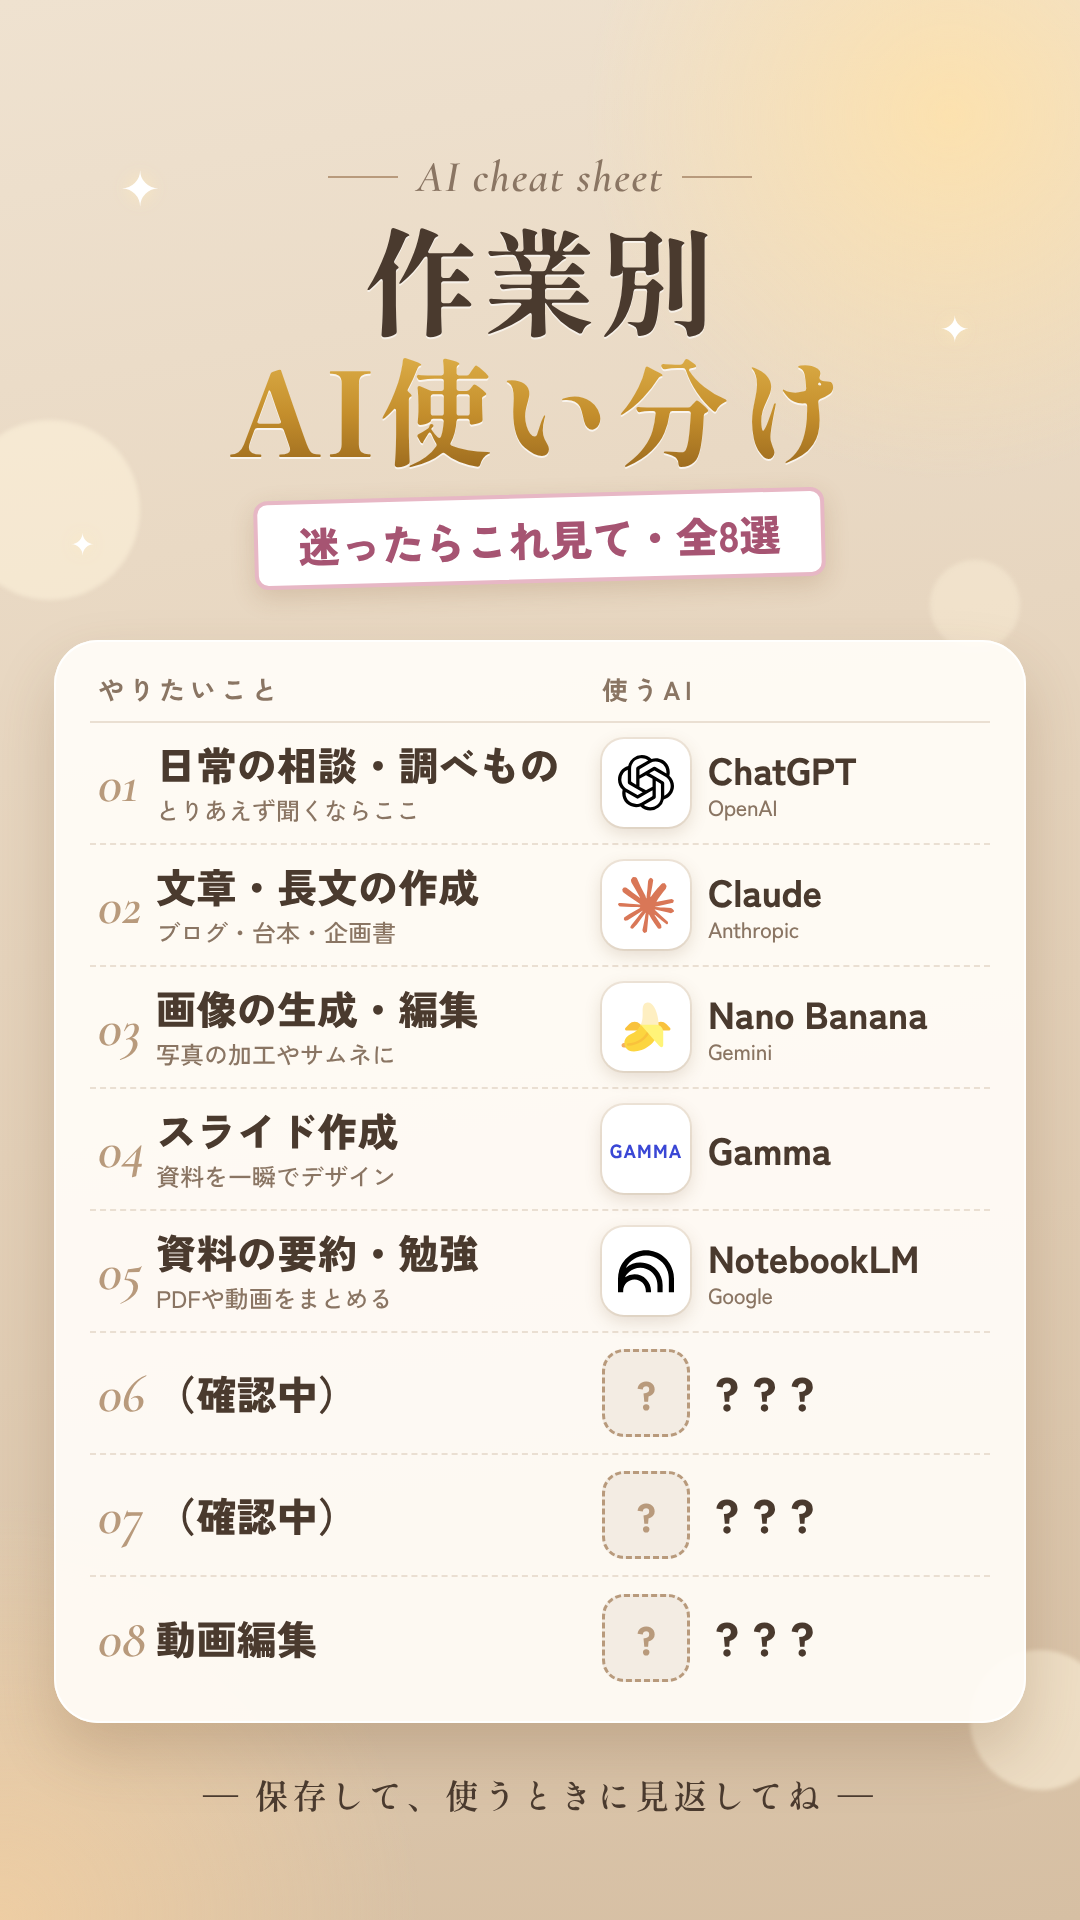
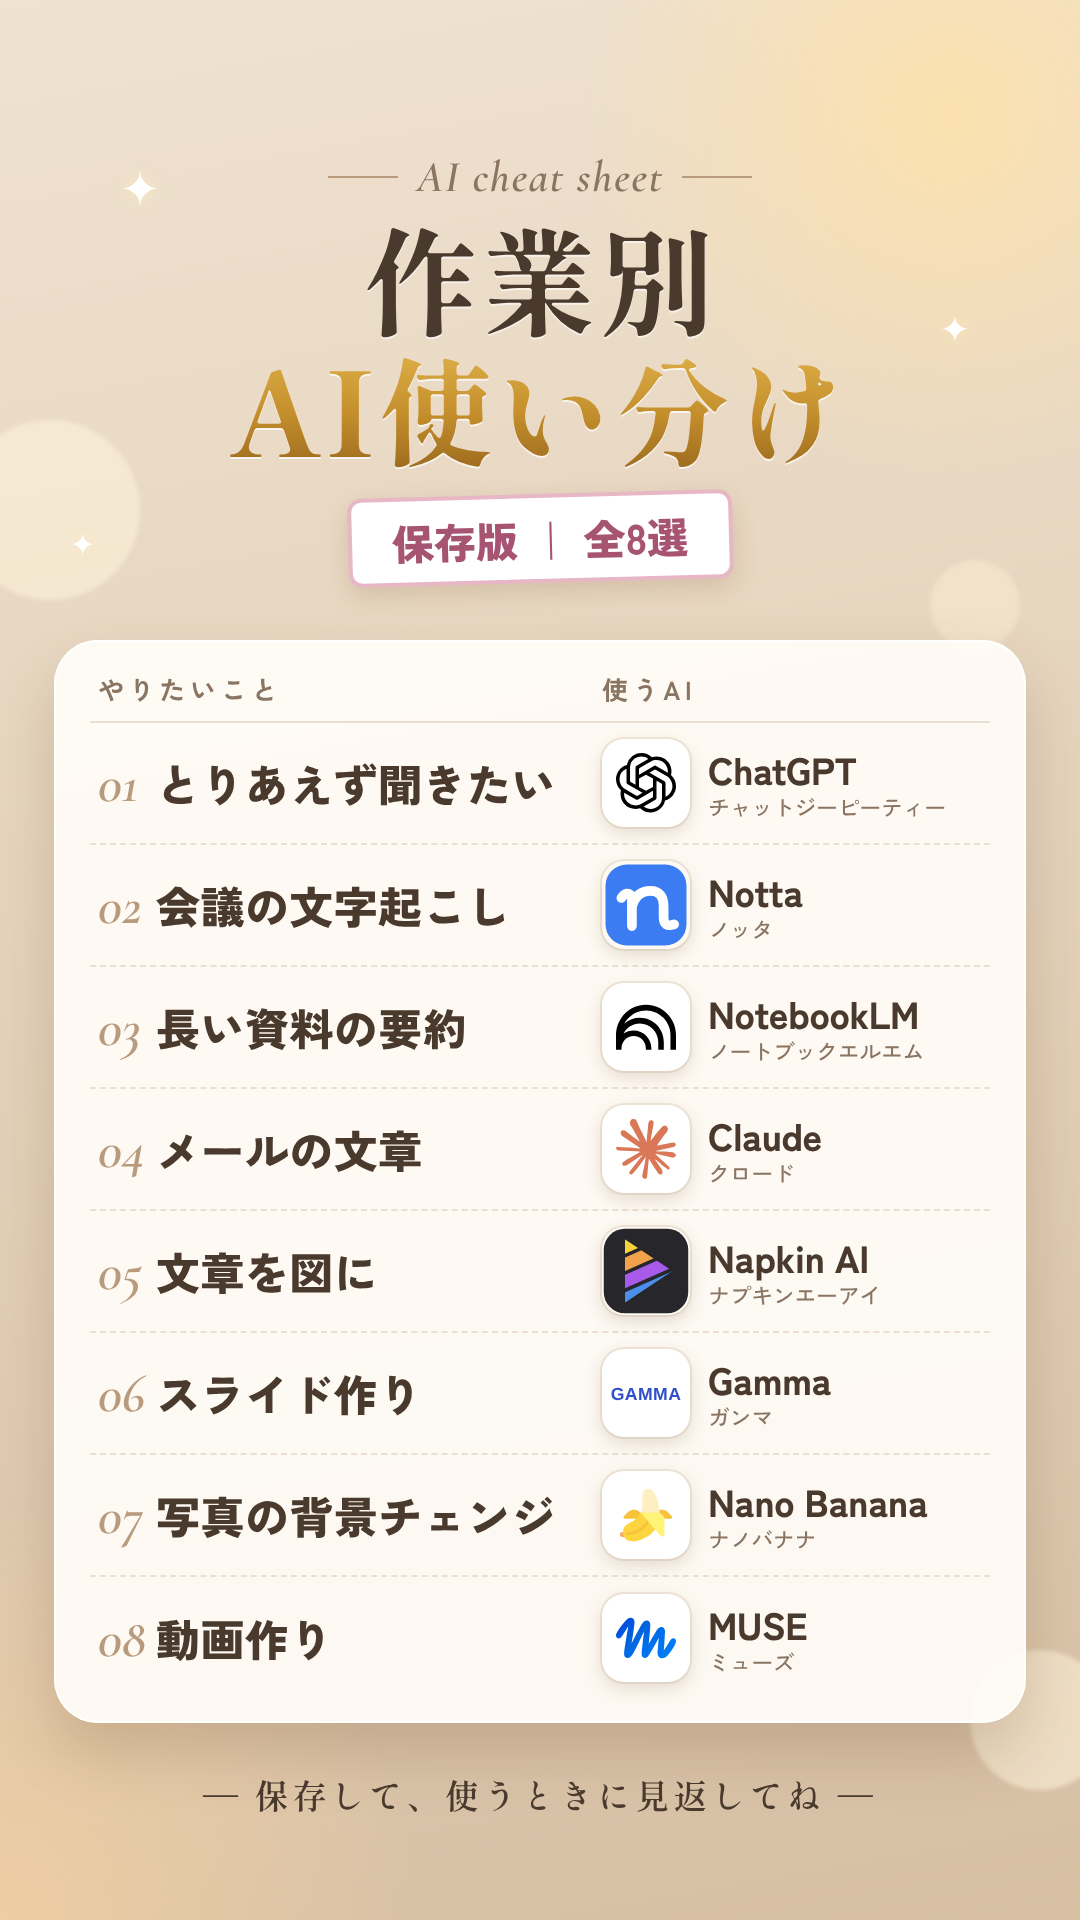
Fill v3 reel cover with the reel's actual 8 AI picks
Claude-Session: https://claude.ai/code/session_017Ef8JeMhRBh7wWp9r51EAv

diff --git a/reel-cover/cover-v3.html b/reel-cover/cover-v3.html
@@ -26,12 +26,13 @@ h1 .g{background:linear-gradient(180deg,#E9BE55 0%,#C48E2C 55%,#8F5F1A 100%);-we
 .row:last-child{border-bottom:none}
 .num{font-family:"Cormorant Garamond";font-style:italic;font-size:54px;color:var(--mocha);width:58px}
 .task{flex:1;min-width:0}
-.task b{display:block;font-weight:900;font-size:40px;line-height:1.2;letter-spacing:.01em}
+.task b{display:block;font-weight:900;font-size:44px;line-height:1.2;letter-spacing:.01em}
 .task small{display:block;font-weight:500;font-size:24px;color:var(--sub);margin-top:4px;white-space:nowrap}
 .tool{display:flex;align-items:center;gap:18px;width:380px}
 .ico{width:88px;height:88px;border-radius:22px;background:#fff;display:flex;align-items:center;justify-content:center;flex:none;
   box-shadow:0 6px 18px rgba(110,75,40,.18),0 0 0 2px #F1E8DC}
-.ico img{width:56px;height:56px}
+.ico img{width:60px;height:60px}
+.ico.full{background:none;overflow:hidden}.ico.full img{width:88px;height:88px}
 .ico.tbd{background:#F3ECE3;border:3px dashed var(--mocha);box-shadow:none;font:900 40px "Zen Kaku Gothic New";color:var(--mocha)}
 .ico .gm{font:900 19px/1 "Zen Kaku Gothic New";letter-spacing:.06em;color:#3A47D5}
 .name{font-weight:900;font-size:38px;line-height:1.1;letter-spacing:-.01em}
@@ -48,7 +49,7 @@ h1 .g{background:linear-gradient(180deg,#E9BE55 0%,#C48E2C 55%,#8F5F1A 100%);-we
 <div class="head">
   <div class="eyebrow">AI cheat sheet</div>
   <h1>作業別<br><span class="g">AI使い分け</span></h1>
-  <div class="tag">迷ったらこれ見て・全8選</div>
+  <div class="tag">保存版 ｜ 全8選</div>
 </div>
 
 <div class="sheet">
@@ -60,16 +61,16 @@ h1 .g{background:linear-gradient(180deg,#E9BE55 0%,#C48E2C 55%,#8F5F1A 100%);-we
 <script>
 // ★ [作業, ひとこと, AI名, AIの補足, アイコン]  アイコン: 'icons/xxx.svg' / 'GAMMA'(文字) / '?'(未確定)
 const ROWS = [
-  ["日常の相談・調べもの", "とりあえず聞くならここ",   "ChatGPT",    "OpenAI",        "icons/chatgpt.svg"],
-  ["文章・長文の作成",     "ブログ・台本・企画書",     "Claude",     "Anthropic",     "icons/claude.svg"],
-  ["画像の生成・編集",     "写真の加工やサムネに",     "Nano Banana","Gemini",        "icons/nanobanana.svg"],
-  ["スライド作成",         "資料を一瞬でデザイン",     "Gamma",      "",              "GAMMA"],
-  ["資料の要約・勉強",     "PDFや動画をまとめる",      "NotebookLM", "Google",        "icons/notebooklm.svg"],
-  ["（確認中）",           "",                         "？？？",     "",              "?"],
-  ["（確認中）",           "",                         "？？？",     "",              "?"],
-  ["動画編集",             "",                         "？？？",     "",              "?"],
+  ["とりあえず聞きたい", "", "ChatGPT",     "チャットジーピーティー", "icons/chatgpt.svg"],
+  ["会議の文字起こし",   "", "Notta",       "ノッタ",                 "icons/notta.svg"],
+  ["長い資料の要約",     "", "NotebookLM",  "ノートブックエルエム",   "icons/notebooklm.svg"],
+  ["メールの文章",       "", "Claude",      "クロード",               "icons/claude.svg"],
+  ["文章を図に",         "", "Napkin AI",   "ナプキンエーアイ",       "icons/napkin.svg"],
+  ["スライド作り",       "", "Gamma",       "ガンマ",                 "icons/gamma.svg"],
+  ["写真の背景チェンジ", "", "Nano Banana", "ナノバナナ",             "icons/nanobanana.svg"],
+  ["動画作り",           "", "MUSE",        "ミューズ",               "icons/muse.svg"],
 ];
-const ico = s => s==='?' ? '<div class="ico tbd">?</div>' : s==='GAMMA' ? '<div class="ico"><span class="gm">GAMMA</span></div>' : `<div class="ico"><img src="${s}"></div>`;
+const ico = s => s==='?' ? '<div class="ico tbd">?</div>' : s==='GAMMA' ? '<div class="ico"><span class="gm">GAMMA</span></div>' : (/notta|napkin/.test(s)?`<div class="ico full"><img src="${s}"></div>`:/gamma/.test(s)?`<div class="ico"><img src="${s}" style="width:84px;height:84px"></div>`:`<div class="ico"><img src="${s}"></div>`);
 document.getElementById('rows').innerHTML = ROWS.map((r,i)=>`
   <div class="row"><span class="num">${String(i+1).padStart(2,'0')}</span>
    <div class="task"><b>${r[0]}</b>${r[1]?`<small>${r[1]}</small>`:''}</div>
